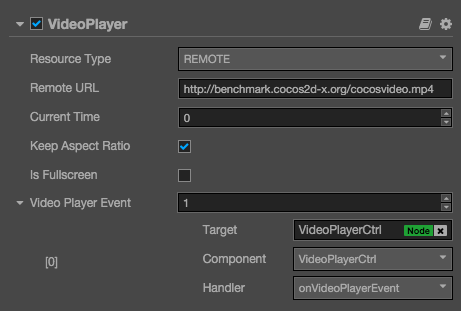
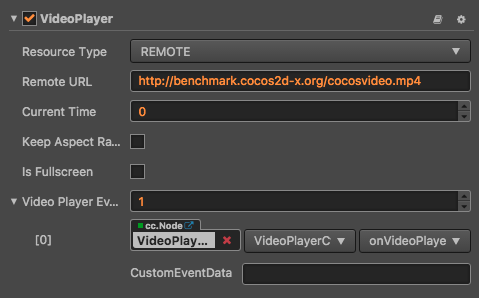
improve videoplayer docs

diff --git a/source/zh/components/videoplayer.md b/source/zh/components/videoplayer.md
@@ -16,24 +16,25 @@ VideoPlayer 的脚本接口请参考 [VideoPlayer API](../api/classes/VideoPlaye
 
 ## VideoPlayer 属性
 
-| 属性 | 功能说明
-|-------- | ----------- |
-| Resource Type| 视频来源的类型，目前支持本地（LOCAL）视频和远程（REMOTE）视频
-| Clip | 当 Resource Type 为 LOCAL 时显示的字段，指代一个本地视频的路径
-| Remote URL | 当 Resource Type 为 REMOTE 时显示的字段，指代一个远程视频的路径
-| Current Time | 指定视频播放时的当前时间点
-| Keep Aspect Ratio | 是否保持视频原来的宽高比
-| Is Fullscreen| 是否全屏播放视频
-| Video Player Event| 视频播放回调函数，该回调函数会在特定情况被触发，比如播放中，暂时，停止和完成播放。 详情见`VideoPlayer 事件`章节
+| 属性               | 功能说明                                                                                                        |
+|--------------------|-----------------------------------------------------------------------------------------------------------------|
+| Resource Type      | 视频来源的类型，目前支持本地（LOCAL）视频和远程（REMOTE）视频                                                   |
+| Clip               | 当 Resource Type 为 LOCAL 时显示的字段，指代一个本地视频的路径                                                  |
+| Remote URL         | 当 Resource Type 为 REMOTE 时显示的字段，指代一个远程视频的路径                                                 |
+| Current Time       | 指定视频播放时的当前时间点                                                                                      |
+| Keep Aspect Ratio  | 是否保持视频原来的宽高比                                                                                        |
+| Is Fullscreen      | 是否全屏播放视频                                                                                                |
+| Video Player Event | 视频播放回调函数，该回调函数会在特定情况被触发，比如播放中，暂时，停止和完成播放。 详情见`VideoPlayer 事件`章节 |
 
 ## VideoPlayer 事件
 
 ### VideoPlayerEvent 事件
-| 属性 |   功能说明
-| -------------- | ----------- |
-|Target| 带有脚本组件的节点。
-|Component| 脚本组件名称。
-|Handler| 指定一个回调函数，当视频开始播放后，暂停时或者结束时都会调用该函数，该函数会传一个事件类型参数进来。详情见`Video Player Event 类型` 章节
+| 属性            | 功能说明                                                                                                                                 |
+| --------------  | -----------                                                                                                                              |
+| Target          | 带有脚本组件的节点。                                                                                                                     |
+| Component       | 脚本组件名称。                                                                                                                           |
+| Handler         | 指定一个回调函数，当视频开始播放后，暂停时或者结束时都会调用该函数，该函数会传一个事件类型参数进来。详情见`Video Player Event 类型` 章节 |
+| CustomEventData | 用户指定任意的字符串作为事件回调的最后一个参数传入。                                                                                     |
 
 ### 事件回调参数
 
@@ -56,6 +57,70 @@ VideoPlayer 的脚本接口请参考 [VideoPlayer API](../api/classes/VideoPlaye
 那么在 PC 的模拟器里面预览的时候可能看不到效果。
 
 此控件支持的视频格式由所运行系统的视频播放器决定，为了让所有支持的平台都能正确播放视频，推荐使用 mp4 格式的视频。
+
+#### 通过脚本代码添加回调
+##### 方法一
+
+这种方法添加的事件回调和使用编辑器添加的事件回调是一样的，通过代码添加，
+你需要首先构造一个 `cc.Component.EventHandler` 对象，然后设置好对应的 target, component, handler 和 customEventData 参数。
+
+```js
+var videoPlayerEventHandler = new cc.Component.EventHandler();
+videoPlayerEventHandler.target = this.node; //这个 node 节点是你的事件处理代码组件所属的节点
+videoPlayerEventHandler.component = "cc.MyComponent"
+videoPlayerEventHandler.handler = "callback";
+videoPlayerEventHandler.customEventData = "foobar";
+
+videoPlayer.videoPlayerEvent.push(videoPlayerEventHandler);
+
+//here is your component file
+cc.Class({
+    name: 'cc.MyComponent'
+    extends: cc.Component,
+
+    properties: {
+    },
+
+	//注意参数的顺序和类型是固定的
+    callback: function(videoplayer, eventType, customEventData) {
+        //这里 videoplayer 是一个 VideoPlayer 组件对象实例
+        // 这里的 eventType === cc.VideoPlayer.EventType enum 里面的值
+        //这里的 customEventData 参数就等于你之前设置的 "foobar"
+    }
+});
+```
+
+##### 方法二
+
+通过 `videoplayer.node.on('ready-to-play', ...)` 的方式来添加
+
+```js
+//假设我们在一个组件的 onLoad 方法里面添加事件处理回调，在 callback 函数中进行事件处理:
+
+cc.Class({
+    extends: cc.Component,
+
+	
+    properties: {
+       videoplayer: cc.VideoPlayer
+    },
+    
+    onLoad: function () {
+       this.videoplayer.node.on('ready-to-play', this.callback, this);
+    },
+    
+    callback: function (event) {
+       //这里的 event 是一个 EventCustom 对象，你可以通过 event.detail 获取 VideoPlayer 组件
+       var videoplayer = event.detail;
+       //do whatever you want with videoplayer
+       //另外，注意这种方式注册的事件，也无法传递 customEventData
+    }
+});
+```
+
+同样的，你也可以注册 'meta-loaded', 'clicked' , 'playing' 等事件，这些事件的回调函数的参数与 'read-to-play' 的参数一致。
+
+关于完整的 VideoPlayer 的事件列表，可以参考 VideoPlayer 的 API 文档。
 
 <hr>
 

diff --git a/source/zh/components/scrollview.md b/source/zh/components/scrollview.md
@@ -55,6 +55,7 @@ ScrollBar 是可选的，你可以选择只设置水平或者垂直 ScrollBar，
 
 建立关联可以通过在**层级管理器**里面拖拽一个带有 ScrollBar 组件的节点到 ScrollView 的相应字段完成。
 
+#### 通过脚本代码添加回调
 ##### 方法一
 
 这种方法添加的事件回调和使用编辑器添加的事件回调是一样的，通过代码添加，
